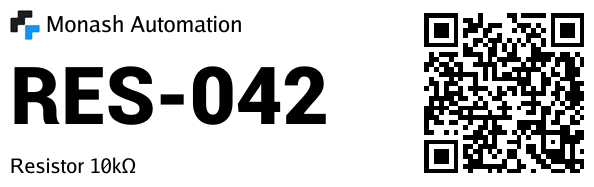
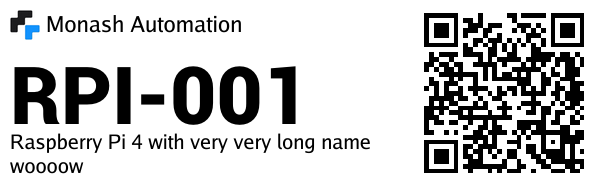
fix: update README for printer configuration and improve label formatting - implement cable label - implement wrapping text to multiple lines if overflows occur

Changed region(s): [[0.1212, 0.3476, 0.5758, 0.6684], [0.0, 0.6952, 0.6364, 0.8289], [0.0, 0.8289, 0.2424, 0.9358]]

diff --git a/format.go b/format.go
@@ -41,11 +41,33 @@ func formatLabel(itemId, serial, name string) error {
 	normalFont := "fonts/roboto-font/RobotoRegular.ttf"
 	boldFont  := "fonts/roboto-font/RobotoBlack-Powx.ttf"
 
-	addTextWithFont(canvas, MARGINS+30+25, MARGINS, "Monash Automation", 30, normalFont, false)
-	addTextWithFont(canvas, MARGINS, HEIGHT/2-50, serial, 100, boldFont, true)
-	addTextWithFont(canvas, MARGINS, HEIGHT-MARGINS-40, name, 40, normalFont, false)
+	const (
+		nameFontSize   = 40.0
+		nameLineHeight = 46
+		titleY         = MARGINS + 15
+		serialFontSize = 100.0
+		headerBottom   = titleY + 44 // below 40px logo with gap
+	)
 
-	if err := overlayImage(canvas, "assets/monash_automation_logo.png", MARGINS, MARGINS, 40, 40); err != nil {
+	addTextWithFont(canvas, MARGINS+30+25, titleY, "Monash Automation", 30, normalFont, false)
+
+	textAreaWidth := WIDTH - QR_CODE_LW - MARGINS*3
+	nameLines := wrapText(name, textAreaWidth, nameFontSize, normalFont, false)
+	nameBlockHeight := len(nameLines) * nameLineHeight
+	nameStartY := HEIGHT - MARGINS - nameBlockHeight
+
+	// Position serial between header and name block, with 8px gaps
+	serialY := nameStartY - int(serialFontSize) - 8
+	if serialY < headerBottom {
+		serialY = headerBottom
+	}
+	addTextWithFont(canvas, MARGINS, serialY, serial, serialFontSize, boldFont, true)
+
+	for i, line := range nameLines {
+		addTextWithFont(canvas, MARGINS, nameStartY+i*nameLineHeight, line, nameFontSize, normalFont, false)
+	}
+
+	if err := overlayImage(canvas, "assets/monash_automation_logo.png", MARGINS, titleY, 40, 40); err != nil {
 		return fmt.Errorf("failed to overlay logo: %w", err)
 	}
 
@@ -117,7 +139,8 @@ func formatSmallLabel(itemId, serial, name string) error {
 }
 
 func formatSmallCableLabel(itemId, serial, name string) error {
-	// DK-11204 cable label: left=text, middle=empty (cable gap), right=QR
+	// DK-11204 cable label: wraps around cable at centre fold.
+	// 7.5mm gap each side of the fold (x=297) → text zone 0–215px, QR zone 379–594px.
 	canvas := image.NewRGBA(image.Rect(0, 0, SMALL_WIDTH, SMALL_HEIGHT))
 	draw.Draw(canvas, canvas.Bounds(), image.White, image.Point{}, draw.Src)
 
@@ -125,7 +148,11 @@ func formatSmallCableLabel(itemId, serial, name string) error {
 	normalFont := "fonts/roboto-font/RobotoRegular.ttf"
 
 	const (
-		sectionW       = SMALL_WIDTH / 3 // 198px per zone
+		// 7.5mm × 11px/mm ≈ 82px each side of the centre fold
+		gapHalf        = 82
+		foldX          = SMALL_WIDTH / 2 // 297px
+		textZoneW      = foldX - gapHalf // 215px
+		qrZoneX        = foldX + gapHalf // 379px
 		logoSize       = 20
 		headerFontSize = 14.0
 		serialFontSize = 46.0
@@ -133,7 +160,7 @@ func formatSmallCableLabel(itemId, serial, name string) error {
 		nameLineHeight = 21
 	)
 
-	textAreaW := sectionW - SMALL_MARGINS*2
+	textAreaW := textZoneW - SMALL_MARGINS*2
 
 	// Header row: logo + "Monash Automation"
 	_ = overlayImage(canvas, "assets/monash_automation_logo.png", SMALL_MARGINS, SMALL_MARGINS, logoSize, logoSize)
@@ -150,9 +177,15 @@ func formatSmallCableLabel(itemId, serial, name string) error {
 		addTextWithFont(canvas, SMALL_MARGINS, nameStartY+i*nameLineHeight, line, nameFontSize, normalFont, false)
 	}
 
-	qrSize := SMALL_HEIGHT - SMALL_MARGINS*2
-	qrX := SMALL_WIDTH - sectionW + SMALL_MARGINS
-	if err := createQRAt(canvas, itemId, qrSize, qrX, SMALL_MARGINS); err != nil {
+	// QR — centred in the right zone
+	qrZoneW := SMALL_WIDTH - qrZoneX
+	qrSize := SMALL_HEIGHT - SMALL_MARGINS*2 // 167px
+	if qrSize > qrZoneW-SMALL_MARGINS*2 {
+		qrSize = qrZoneW - SMALL_MARGINS*2
+	}
+	qrX := qrZoneX + (qrZoneW-qrSize)/2
+	qrY := (SMALL_HEIGHT - qrSize) / 2
+	if err := createQRAt(canvas, itemId, qrSize, qrX, qrY); err != nil {
 		return fmt.Errorf("failed to generate QR code: %w", err)
 	}
 

diff --git a/README.md b/README.md
@@ -32,8 +32,8 @@ go install       # Compiles and installs binary
 ```
 
 3. **Configure printers:**
-   - Ensure the standard/cable printer is installed in CUPS as `brother_ql.700` using DK-11201 label stock
-   - Ensure the small label printer is installed in CUPS as `brother_ql.700_small` using DK-11204 label stock
+   - Ensure the standard label printer is installed in CUPS as `brother_ql.700` using DK-11201 label stock
+   - Ensure the small/cable label printer is installed in CUPS as `brother_ql.700_small` using DK-11204 label stock
    - Verify with: `lpstat -p -d`
    - To use different CUPS names, update `STANDARD_PRINTER_NAME` and `SMALL_PRINTER_NAME` in `main.go`
 
@@ -134,7 +134,7 @@ curl -X POST http://localhost:6767/printer \
 |------|-------|--------------|--------|---------|
 | Standard (0) | DK-11201 | 29mm × 90mm | 306 × 991 px | `brother_ql.700` |
 | Small (1) | DK-11204 | 17mm × 54mm | 187 × 594 px | `brother_ql.700_small` |
-| Small Cable (2) | DK-11204 | 17mm × 54mm | 187 × 594 px | `brother_ql.700_small` |
+| Cable (2) | DK-11204 | 17mm × 54mm | 187 × 594 px | `brother_ql.700_small` |
 
 **Standard:**
 - QR code: 241 × 241 px (High error correction)
@@ -147,10 +147,10 @@ curl -X POST http://localhost:6767/printer \
 - Serial: 80pt bold · Name: 20pt regular
 
 **Small Cable:**
-- Designed to fold over a cable along the y-axis
-- Left zone (~18mm): serial number (52pt bold) + item name (17pt regular, word-wrapped)
-- Middle zone (~18mm): intentionally blank — cable rests here
-- Right zone (~18mm): QR code (167 × 167 px, High error correction)
+- Designed to fold over a cable along the y-axis (centre fold at 27mm)
+- 7.5mm blank gap each side of the fold — cable rests in this zone
+- Left zone (0–19.5mm): logo + "Monash Automation" header, serial (46pt bold), item name (17pt regular, word-wrapped)
+- Right zone (34.5–54mm): QR code (167 × 167 px, High error correction), centred
 - Margins: 10 px
 
 ## Project Structure
